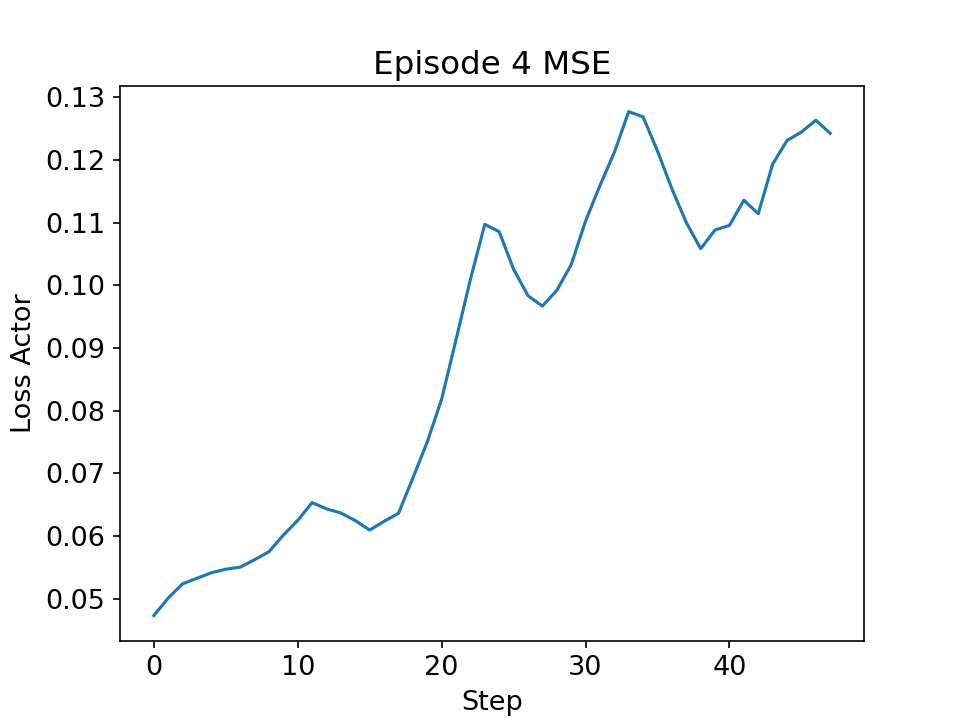
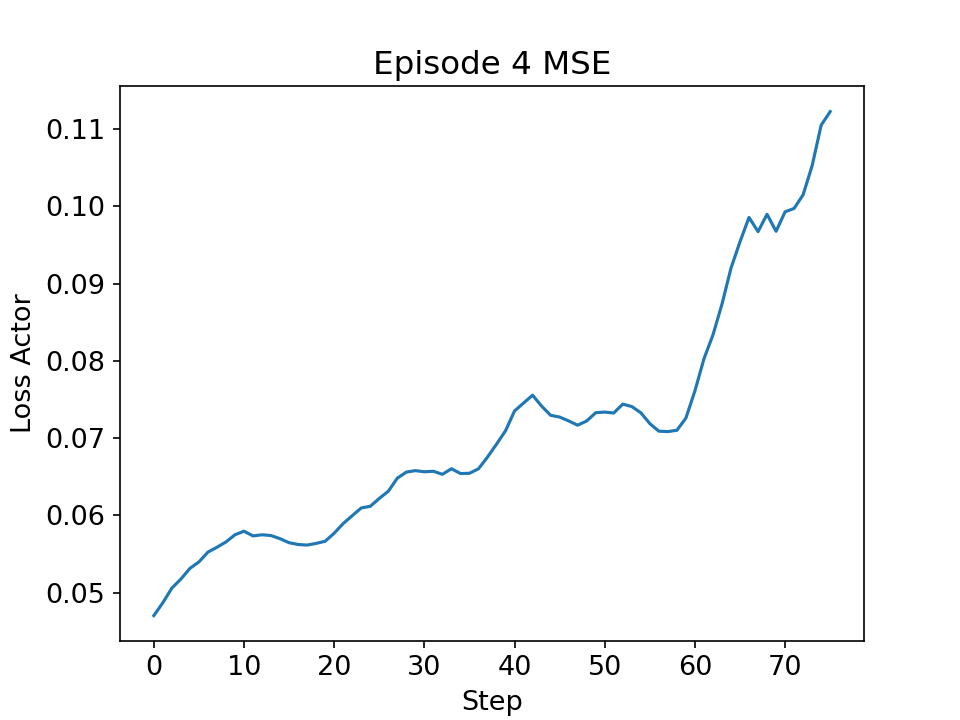
goal area random now

diff --git a/plot_utils.py b/plot_utils.py
@@ -8,6 +8,10 @@ class RLPlotter():
     def __init__(self, logger, goal_area):
         self.logger = logger
         self.goal_area = goal_area
+    
+    def update_goal(self, goal_area):
+        self.goal_area = goal_area
+
 
     def clear_plots(self):
         clear_folder('episode_losses_critic')
@@ -110,8 +114,7 @@ class RLPlotter():
     def plot_last_episode_paths(self):
         folder = os.path.join('logs', 'episode_paths')
         i = len(self.logger.episode_states) - 1
-        # x = np.array(self.logger.episode_states[i])[:,0,0]
-        # y = np.array(self.logger.episode_states[i])[:,0,1]
+
         x = np.array(self.logger.episode_states[i])[:,:,0]
         y = np.array(self.logger.episode_states[i])[:,:,1]
         plot_normalized_concentration(self.goal_area)
@@ -126,22 +129,20 @@ class RLPlotter():
         plt.savefig(os.path.join(folder, f'episode{i}_path.png'))
         plt.close()
 
-def plot_normalized_concentration(goal_area):
+def plot_normalized_concentration(goal_area, show=False):
     x,y = np.meshgrid(np.linspace(-1,1,100),np.linspace(-1,1,100))
-    r = np.sqrt((x-goal_area.centerX[0])**2+(y-goal_area.centerY[0])**2)
+    r = np.sqrt((x-goal_area.center[0][0])**2+(y-goal_area.center[0][1])**2)
     concentration = 1/(1+r)
 
     plt.xlim(-1,1)
     plt.ylim(-1,1)
-    # patches.Rectangle((goal_area.centerX-goal_area.width/2, goal_area.centerY-goal_area.height/2), goal_area.width, goal_area.height, color='black', fill=False, alpha=0.5, label='goal area')
     plt.imshow(concentration[:,],cmap = 'plasma',extent=[-1,1,-1,1],origin='lower')
     colorbar = plt.colorbar()
     colorbar.set_label(r'$c/c_0$',labelpad=10,fontsize = 20)
-
+    if show:
+        plt.show()
 
 def clear_folder(folder_name):
     folder = os.path.join('logs', folder_name)
     shutil.rmtree(folder, ignore_errors=True)
     os.makedirs(folder, exist_ok=True)
-
-

diff --git a/environments.py b/environments.py
@@ -1,19 +1,16 @@
 import numpy as np
 
 class BoxEnvironment1():
-    def __init__(self, space, goal):
+    def __init__(self, space):
         self.space = space
-        self.goal = goal
     
-    def init_state(self, agent_batch_size, state_dim):
+    def init_env(self, agent_batch_size, state_dim, goal):
         self.agent_batch_size = agent_batch_size
         self.state = np.zeros((agent_batch_size,state_dim))
         self.state[:,0] = -0.5*np.ones(agent_batch_size)
-
-    def update_goal(self, goal):
         self.goal = goal
     
-    def step(self, action, U0, dt, goal, characteristic_length = 1):
+    def step(self, action, U0, dt, characteristic_length = 1):
         x, y = self.state[:,0], self.state[:,1]
         theta = action[:,0]
         #thermal noise
@@ -36,11 +33,11 @@ class BoxEnvironment1():
         self.state[:,2] = concentration 
         
         # Compute reward
-        reward = self.reward(dt, np.array(inside_space).astype(int), self.state[:,0:2])
+        reward = self.reward(dt, np.array(inside_space).astype(int))
 
         return reward
     
-    def reward(self, dt, inside_space, position):
+    def reward(self, dt, inside_space):
         # Compute reward
         not_inside_space = np.logical_not(inside_space)
         reward = -dt*np.ones(self.state.shape[0])

diff --git a/environment_utils.py b/environment_utils.py
@@ -29,3 +29,9 @@ class Box():
         bool = np.logical_and(np.logical_and(x > self.centerX-self.width/2, x < self.centerX+self.width/2),
                               np.logical_and(y > self.centerY-self.height/2, y < self.centerY+self.height/2))
         return bool
+    
+    def sample(self):
+        x = np.random.uniform(self.centerX-self.width/2, self.centerX+self.width/2)
+        y = np.random.uniform(self.centerY-self.height/2, self.centerY+self.height/2)
+        # raise Exception(x.shape, y.shape)
+        return np.array([x,y])
